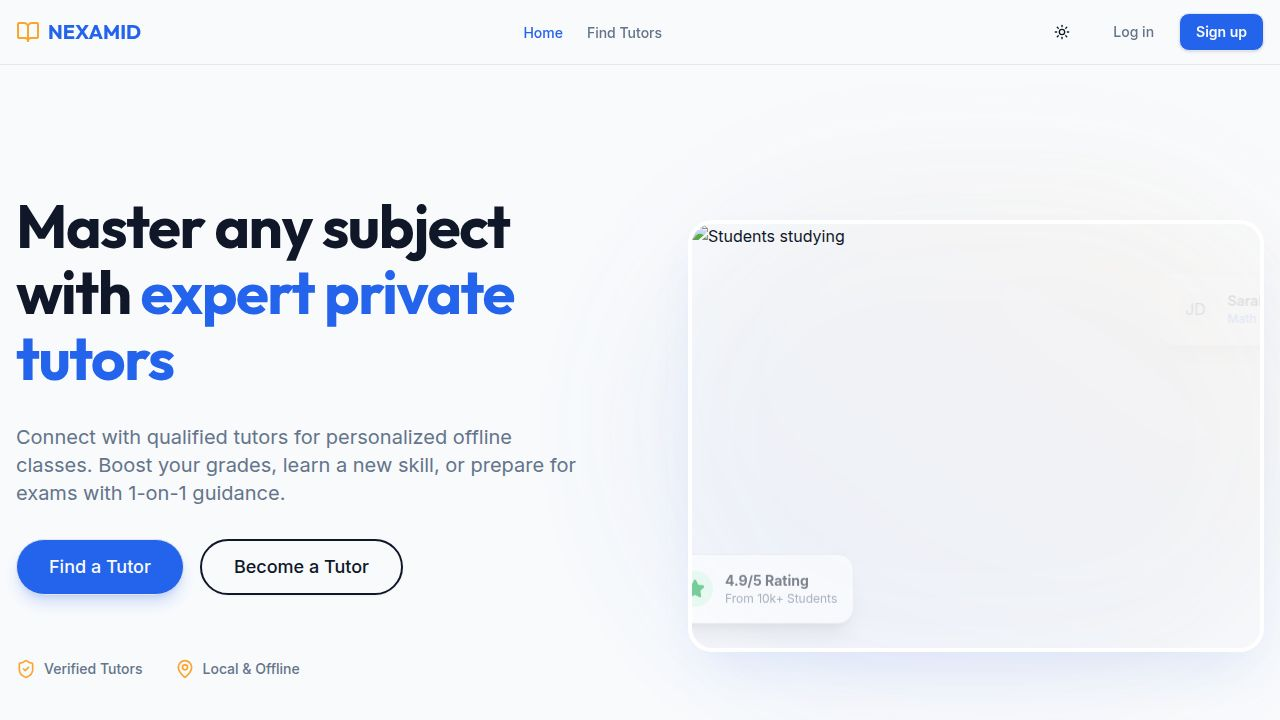
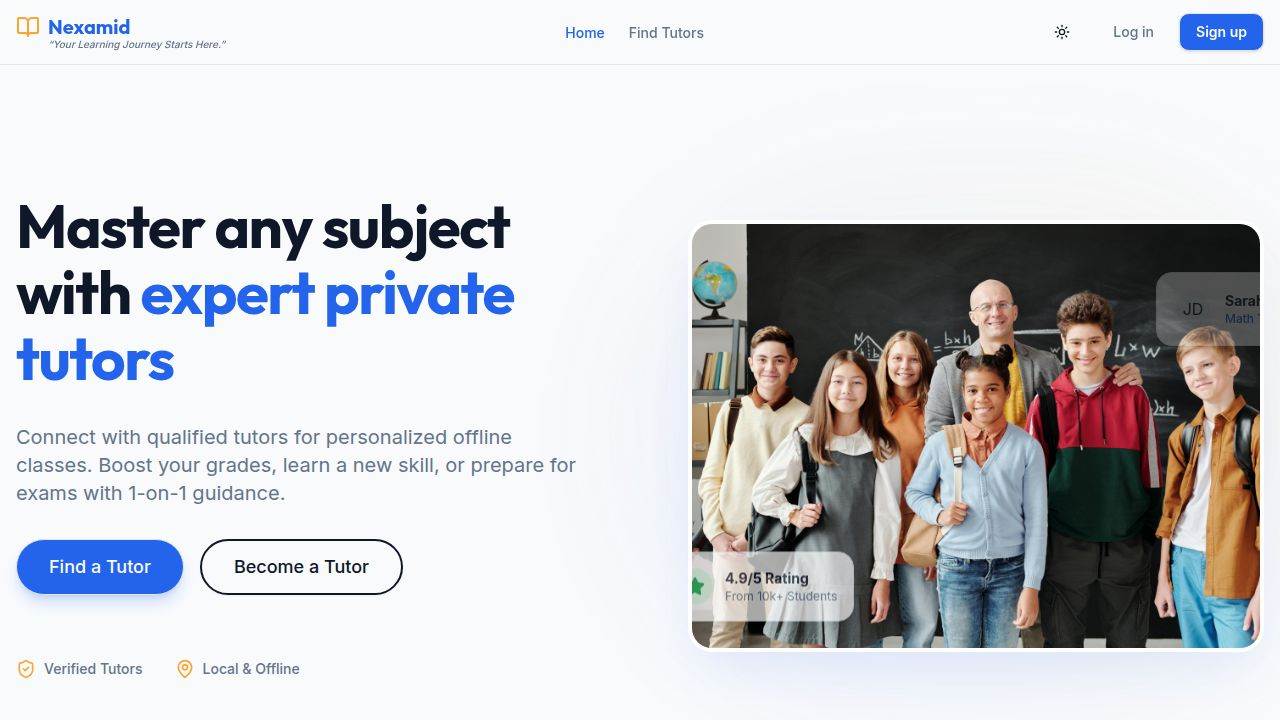
Update platform branding and visuals to Nexamid
Rebrands the platform from TutorLink to Nexamid, updates the hero image, and adds the tagline "Your Learning Journey Starts Here." across various pages including the homepage, footer, and about section. Also adjusts meta tags for social sharing.

Replit-Commit-Author: Agent
Replit-Commit-Session-Id: 905c3e5a-708e-4a37-a309-4130283fd217
Replit-Commit-Checkpoint-Type: full_checkpoint
Replit-Commit-Event-Id: 5695cb0f-d4e6-4636-a262-ecb358a8e640
Replit-Commit-Screenshot-Url: https://storage.googleapis.com/screenshot-production-us-central1/de17f69f-1613-47f3-ae30-7c235067846d/905c3e5a-708e-4a37-a309-4130283fd217/U6CXOzh
Replit-Helium-Checkpoint-Created: true

Changed region(s): [[0.5312, 0.3056, 1.0, 0.9167], [0.0, 0.0, 0.125, 0.0917], [0.4062, 0.0306, 0.5625, 0.0611]]

diff --git a/client/src/pages/terms.tsx b/client/src/pages/terms.tsx
@@ -32,7 +32,7 @@ export default function TermsOfService() {
             </h2>
             <div className="prose prose-slate dark:prose-invert max-w-none text-muted-foreground leading-relaxed">
               <p>
-                By accessing or using the TutorLink platform, you agree to be bound by these Terms of Service and all applicable laws and regulations. If you do not agree with any of these terms, you are prohibited from using or accessing this site.
+                By accessing or using the Nexamid platform, you agree to be bound by these Terms of Service and all applicable laws and regulations. If you do not agree with any of these terms, you are prohibited from using or accessing this site.
               </p>
             </div>
           </section>
@@ -43,7 +43,7 @@ export default function TermsOfService() {
             </h2>
             <div className="prose prose-slate dark:prose-invert max-w-none text-muted-foreground leading-relaxed">
               <p>
-                TutorLink is a lead-generation marketplace that connects students with independent tutors. We do not employ tutors, nor are we responsible for the specific educational outcomes or conduct of users during offline sessions. All arrangements made between students and tutors are independent agreements.
+                Nexamid is a lead-generation marketplace that connects students with independent tutors. We do not employ tutors, nor are we responsible for the specific educational outcomes or conduct of users during offline sessions. All arrangements made between students and tutors are independent agreements.
               </p>
             </div>
           </section>
@@ -67,7 +67,7 @@ export default function TermsOfService() {
             </h2>
             <div className="prose prose-slate dark:prose-invert max-w-none text-muted-foreground leading-relaxed">
               <p>
-                In no event shall TutorLink or its suppliers be liable for any damages (including, without limitation, damages for loss of data or profit, or due to business interruption) arising out of the use or inability to use the materials on TutorLink's website.
+                In no event shall Nexamid or its suppliers be liable for any damages (including, without limitation, damages for loss of data or profit, or due to business interruption) arising out of the use or inability to use the materials on Nexamid's website.
               </p>
             </div>
           </section>

diff --git a/client/src/pages/privacy.tsx b/client/src/pages/privacy.tsx
@@ -32,7 +32,7 @@ export default function PrivacyPolicy() {
             </h2>
             <div className="prose prose-slate dark:prose-invert max-w-none text-muted-foreground leading-relaxed">
               <p>
-                At TutorLink, we collect information to provide better services to all our users. The types of information we collect include:
+                At Nexamid, we collect information to provide better services to all our users. The types of information we collect include:
               </p>
               <ul className="list-disc pl-6 space-y-2">
                 <li><strong>Account Information:</strong> When you sign up for an account, we ask for information like your name, email address, and phone number.</li>
@@ -48,7 +48,7 @@ export default function PrivacyPolicy() {
             </h2>
             <div className="prose prose-slate dark:prose-invert max-w-none text-muted-foreground leading-relaxed">
               <p>
-                We use the information we collect to provide, maintain, and improve our services, to develop new ones, and to protect TutorLink and our users. Specifically:
+                We use the information we collect to provide, maintain, and improve our services, to develop new ones, and to protect Nexamid and our users. Specifically:
               </p>
               <ul className="list-disc pl-6 space-y-2">
                 <li>To facilitate connections between students and tutors for offline classes.</li>
@@ -64,7 +64,7 @@ export default function PrivacyPolicy() {
             </h2>
             <div className="prose prose-slate dark:prose-invert max-w-none text-muted-foreground leading-relaxed">
               <p>
-                We do not share your personal information with companies, organizations, or individuals outside of TutorLink except in the following cases:
+                We do not share your personal information with companies, organizations, or individuals outside of Nexamid except in the following cases:
               </p>
               <ul className="list-disc pl-6 space-y-2">
                 <li><strong>With your consent:</strong> We will share personal information with tutors or students only when you explicitly choose to connect with them.</li>

diff --git a/client/src/pages/home.tsx b/client/src/pages/home.tsx
@@ -49,8 +49,8 @@ export default function Home() {
             <div className="flex-1 relative w-full max-w-[600px] lg:max-w-none">
               <div className="relative aspect-[4/3] rounded-3xl overflow-hidden shadow-2xl shadow-primary/10 border-4 border-white">
                 <img 
-                  src="/assets/hero-study.jpg" 
-                  alt="Students studying" 
+                  src="/hero-main.jpg" 
+                  alt="Students with teacher" 
                   className="object-cover w-full h-full transform hover:scale-105 transition-transform duration-700"
                 />
                 
@@ -93,7 +93,7 @@ export default function Home() {
       <section className="py-24 bg-muted/30">
         <div className="container mx-auto px-4">
           <div className="text-center max-w-3xl mx-auto mb-16">
-            <h2 className="text-3xl font-heading font-bold mb-4">Why choose NEXAMID?</h2>
+            <h2 className="text-3xl font-heading font-bold mb-4">Why choose Nexamid?</h2>
             <p className="text-muted-foreground text-lg">We verify every tutor to ensure you get the best learning experience possible.</p>
           </div>
           
@@ -142,7 +142,7 @@ export default function Home() {
             <div className="relative z-10 max-w-2xl mx-auto space-y-8">
               <h2 className="text-3xl md:text-5xl font-heading font-bold">Ready to start learning?</h2>
               <p className="text-primary-foreground/90 text-lg md:text-xl">
-                Join thousands of students who have found their perfect tutor on NEXAMID today.
+                Join thousands of students who have found their perfect tutor on Nexamid today.
               </p>
               <Link href="/find-tutors">
                 <Button size="lg" variant="secondary" className="h-14 px-8 text-lg rounded-full font-bold shadow-lg hover:shadow-xl hover:scale-105 transition-all text-foreground">

diff --git a/client/src/pages/about.tsx b/client/src/pages/about.tsx
@@ -23,7 +23,7 @@ export default function AboutUs() {
               <span className="text-primary">Curiosity and Mastery</span>
             </h1>
             <p className="text-xl text-muted-foreground leading-relaxed max-w-2xl">
-              TutorLink is a dedicated marketplace designed to simplify the discovery of qualified educators. 
+              Nexamid is a dedicated marketplace designed to simplify the discovery of qualified educators. 
               We connect students with local tutors for personalized, offline learning support that fits 
               their specific academic needs and locations.
             </p>
@@ -93,7 +93,7 @@ export default function AboutUs() {
           <section className="space-y-6">
             <h2 className="text-2xl font-bold">Why We Built This Platform</h2>
             <p className="text-muted-foreground leading-relaxed">
-              TutorLink was born from a simple observation: finding a reliable, local tutor is often 
+              Nexamid was born from a simple observation: finding a reliable, local tutor is often 
               unnecessarily difficult. Most parents and students have to rely on generic classified 
               sites or word-of-mouth, which lack the transparency and focus required for a professional 
               educational match.
@@ -135,7 +135,7 @@ export default function AboutUs() {
               <h2 className="text-3xl font-bold">The right guidance changes everything.</h2>
               <p className="text-lg opacity-90 max-w-xl mx-auto">
                 Whether you're looking to master a difficult subject or share your knowledge with others, 
-                TutorLink is here to help you take the next step.
+                Nexamid is here to help you take the next step.
               </p>
               <div className="flex flex-col sm:flex-row gap-4 justify-center">
                 <Link href="/find-tutors">

diff --git a/client/src/components/layout/footer.tsx b/client/src/components/layout/footer.tsx
@@ -7,9 +7,14 @@ export function Footer() {
       <div className="container mx-auto px-4 py-12">
         <div className="grid grid-cols-1 md:grid-cols-4 gap-8">
           <div className="space-y-4">
-            <div className="flex items-center gap-2 font-heading font-bold text-xl text-primary">
-              <BookOpen className="h-6 w-6 text-secondary" />
-              <span>NEXAMID</span>
+            <div className="flex flex-col items-start gap-0">
+              <div className="flex items-center gap-2 font-heading font-bold text-xl text-primary">
+                <BookOpen className="h-6 w-6 text-secondary" />
+                <span>Nexamid</span>
+              </div>
+              <span className="text-[10px] text-muted-foreground font-medium -mt-1 ml-8 italic">
+                “Your Learning Journey Starts Here.”
+              </span>
             </div>
             <p className="text-sm text-muted-foreground max-w-xs">
               Connecting ambitious students with expert tutors for personalized offline learning experiences.
@@ -42,7 +47,7 @@ export function Footer() {
               </a>
             </div>
             <p className="mt-4 text-xs text-muted-foreground">
-              © 2026 NEXAMID Inc. All rights reserved.
+              © 2026 Nexamid Inc. All rights reserved.
             </p>
           </div>
         </div>

diff --git a/client/index.html b/client/index.html
@@ -4,15 +4,15 @@
     <meta charset="UTF-8" />
     <meta name="viewport" content="width=device-width, initial-scale=1.0, maximum-scale=1" />
 
-    <meta property="og:title" content="NEXAMID - Find Your Perfect Private Tutor" />
+    <meta property="og:title" content="Nexamid - Find Your Perfect Private Tutor" />
     <meta property="og:description" content="Connect with expert private tutors for offline classes in your area. Search by subject and location." />
     <meta property="og:type" content="website" />
-    <meta property="og:image" content="/assets/hero-study.jpg" />
+    <meta property="og:image" content="/hero-main.jpg" />
     <meta name="twitter:card" content="summary_large_image" />
     <meta name="twitter:site" content="@replit" />
-    <meta name="twitter:title" content="NEXAMID - Find Your Perfect Private Tutor" />
+    <meta name="twitter:title" content="Nexamid - Find Your Perfect Private Tutor" />
     <meta name="twitter:description" content="Connect with expert private tutors for offline classes in your area. Search by subject and location." />
-    <meta name="twitter:image" content="/assets/hero-study.jpg" />
+    <meta name="twitter:image" content="/hero-main.jpg" />
 
     <link rel="icon" type="image/png" href="/favicon.png" />
     <link rel="preconnect" href="https://fonts.googleapis.com">

diff --git a/client/src/pages/how-it-works.tsx b/client/src/pages/how-it-works.tsx
@@ -45,7 +45,7 @@ export default function HowItWorks() {
         </Link>
 
         <div className="text-center space-y-4 mb-16 animate-in fade-in slide-in-from-bottom-4 duration-500">
-          <h1 className="text-4xl md:text-5xl font-heading font-bold tracking-tight">How TutorLink Works</h1>
+          <h1 className="text-4xl md:text-5xl font-heading font-bold tracking-tight">How Nexamid Works</h1>
           <p className="text-xl text-muted-foreground max-w-2xl mx-auto">
             Our platform is designed to make finding the right educational support as simple and transparent as possible.
           </p>
@@ -77,7 +77,7 @@ export default function HowItWorks() {
           <div className="space-y-6">
             <h2 className="text-3xl font-heading font-bold">For Tutors</h2>
             <p className="text-muted-foreground leading-relaxed">
-              Are you an expert in your field looking to share your knowledge? Joining TutorLink as an educator is simple and rewarding.
+              Are you an expert in your field looking to share your knowledge? Joining Nexamid as an educator is simple and rewarding.
             </p>
             <ul className="space-y-4">
               {[

diff --git a/client/src/components/layout/navbar.tsx b/client/src/components/layout/navbar.tsx
@@ -27,9 +27,14 @@ export function Navbar() {
       <div className="container mx-auto px-4 h-16 flex items-center justify-between">
         {/* Logo */}
         <Link href="/">
-          <a className="flex items-center gap-2 font-heading font-bold text-xl text-primary hover:opacity-90 transition-opacity">
-            <BookOpen className="h-6 w-6 text-secondary" />
-            <span>NEXAMID</span>
+          <a className="flex flex-col items-start gap-0 hover:opacity-90 transition-opacity">
+            <div className="flex items-center gap-2 font-heading font-bold text-xl text-primary">
+              <BookOpen className="h-6 w-6 text-secondary" />
+              <span>Nexamid</span>
+            </div>
+            <span className="text-[10px] text-muted-foreground font-medium -mt-1 ml-8 italic">
+              “Your Learning Journey Starts Here.”
+            </span>
           </a>
         </Link>
 
